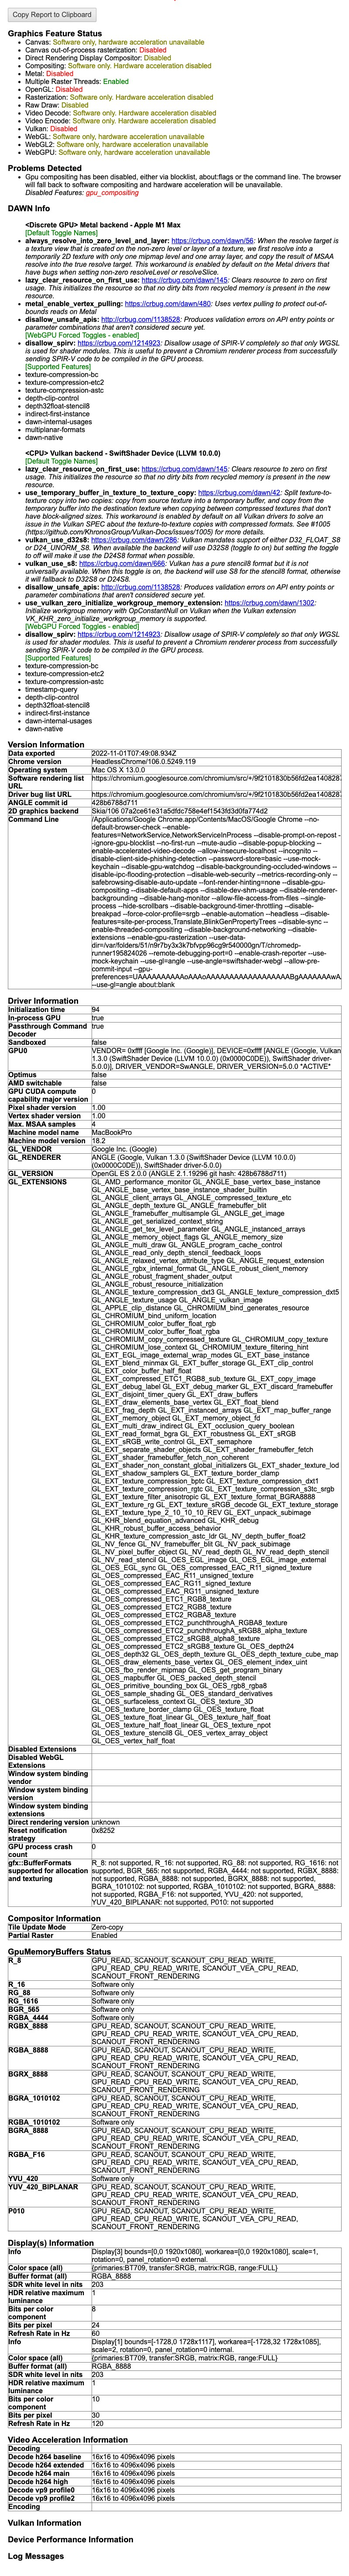
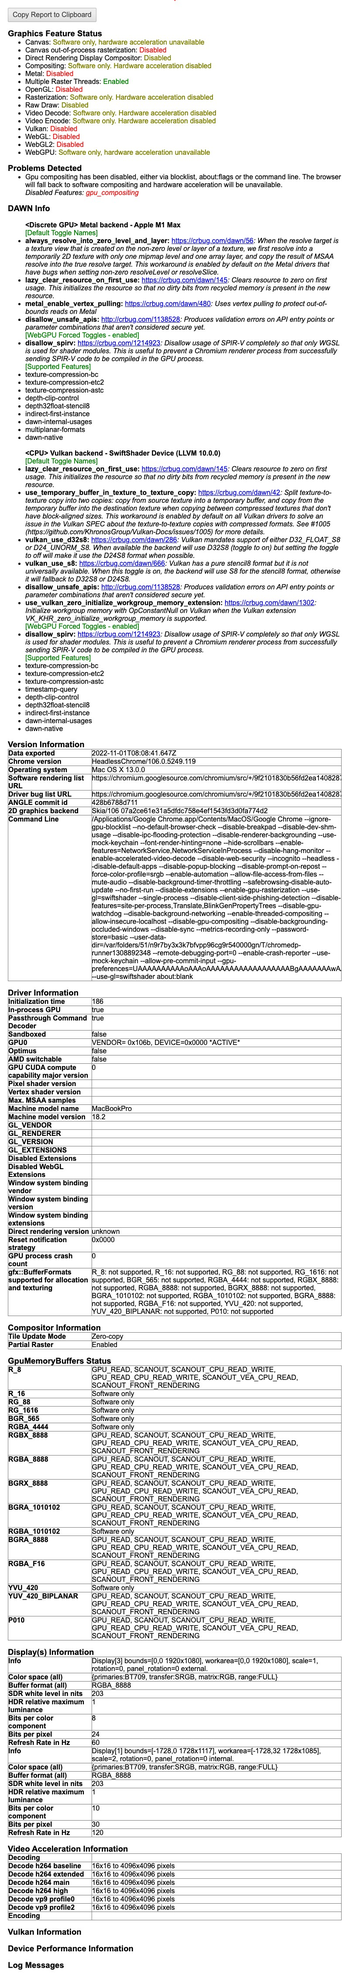
updated

diff --git a/index.html b/index.html
@@ -2,13 +2,13 @@
   <body>
     <canvas id="c" width="400" height="400" style="border:1px solid #000"></canvas>
     <script>
+    window.ready=false;
     const c = document.getElementById("c");
     const gl = c.getContext('webgl');
     gl.enable(gl.SCISSOR_TEST);
 
     function drawRect(x, y, width, height, color) {
       gl.scissor(x, y, width, height);
-      // @ts-ignore
       gl.clearColor(...color);
       gl.clear(gl.COLOR_BUFFER_BIT);
     }
@@ -18,9 +18,9 @@
       const y = rand(0, 150);
       const width = rand(0, 300 - x);
       const height = rand(0, 150 - y);
-      // @ts-ignore
       drawRect(x, y, width, height, [rand(1), rand(1), rand(1), 1]);
     }
+    window.ready = true;
      
      
     function rand(min, max) {

diff --git a/main.go b/main.go
@@ -10,12 +10,12 @@ import (
 	"github.com/chromedp/chromedp"
 )
 
-func navAndShot(ctx *context.Context, url string, label string) {
+func navAndShot(ctx *context.Context, queryAction chromedp.QueryAction, url string, label string) {
 	var buf []byte
 	chromedp.Run(
 		*ctx,
 		chromedp.Navigate(url),
-		chromedp.WaitReady("body"),
+		queryAction,
 		chromedp.FullScreenshot(&buf, 90),
 	)
 
@@ -40,7 +40,7 @@ func main() {
 		chromedp.Flag("enable-accelerated-video-decode", true),
 		chromedp.Flag("enable-gpu-rasterization", true),
 
-		// chromedp.Flag("use-gl", "swiftshader"),
+		chromedp.Flag("use-gl", "swiftshader"),
 		chromedp.Flag("enable-threaded-compositing", true),
 
 		chromedp.Flag("allow-insecure-localhost", true),
@@ -70,7 +70,7 @@ func main() {
 
 	webgl := fmt.Sprintf("file://%s/index.html", dirPath)
 
-	navAndShot(&ctx, gpu, "gpu")
-	navAndShot(&ctx, webgl, "webgl")
+	navAndShot(&ctx, chromedp.WaitReady("body"), gpu, "gpu")
+	navAndShot(&ctx, chromedp.WaitReady("body"), webgl, "webgl")
 
 }
